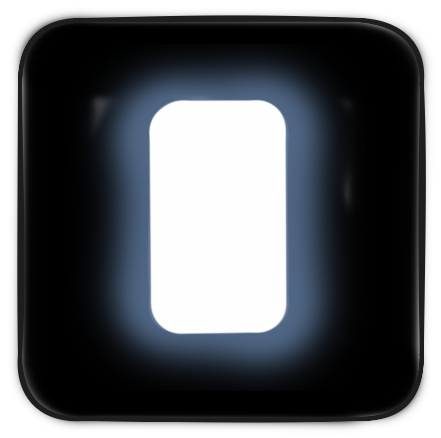
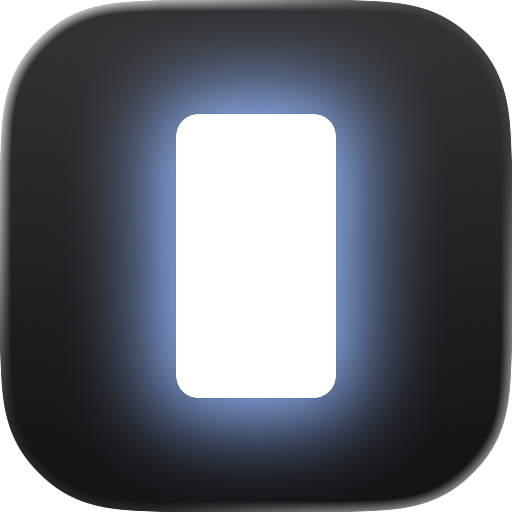
Use real screenshots, replace Coming Soon with Hibi
- Add per-app screenshot folders (zettel/, zeitgeist/, hibi/) with
  4 screenshots each, renamed to 1-4.png
- Remove old placeholder screenshot.png
- Replace "?" Coming Soon icon with Hibi (Paper-like Calendar)
- Remove next-icon.png, add hibi-icon.png
- Increase mobile scroll range to 200vh

diff --git a/index.html b/index.html
@@ -54,22 +54,22 @@
 				<div class="screenshot-group" data-app="0">
 					<div class="ss-lane ss-lane--left">
 						<div class="ss-lane__strip">
-							<img class="ss" src="/screenshots/screenshot.png" alt="" />
-							<img class="ss" src="/screenshots/screenshot.png" alt="" />
-							<img class="ss" src="/screenshots/screenshot.png" alt="" />
-							<img class="ss" src="/screenshots/screenshot.png" alt="" />
-							<img class="ss" src="/screenshots/screenshot.png" alt="" />
-							<img class="ss" src="/screenshots/screenshot.png" alt="" />
+							<img class="ss" src="/screenshots/zettel/1.png" alt="" />
+							<img class="ss" src="/screenshots/zettel/2.png" alt="" />
+							<img class="ss" src="/screenshots/zettel/3.png" alt="" />
+							<img class="ss" src="/screenshots/zettel/1.png" alt="" />
+							<img class="ss" src="/screenshots/zettel/2.png" alt="" />
+							<img class="ss" src="/screenshots/zettel/3.png" alt="" />
 						</div>
 					</div>
 					<div class="ss-lane ss-lane--right">
 						<div class="ss-lane__strip ss-lane__strip--reverse">
-							<img class="ss" src="/screenshots/screenshot.png" alt="" />
-							<img class="ss" src="/screenshots/screenshot.png" alt="" />
-							<img class="ss" src="/screenshots/screenshot.png" alt="" />
-							<img class="ss" src="/screenshots/screenshot.png" alt="" />
-							<img class="ss" src="/screenshots/screenshot.png" alt="" />
-							<img class="ss" src="/screenshots/screenshot.png" alt="" />
+							<img class="ss" src="/screenshots/zettel/4.png" alt="" />
+							<img class="ss" src="/screenshots/zettel/1.png" alt="" />
+							<img class="ss" src="/screenshots/zettel/2.png" alt="" />
+							<img class="ss" src="/screenshots/zettel/4.png" alt="" />
+							<img class="ss" src="/screenshots/zettel/1.png" alt="" />
+							<img class="ss" src="/screenshots/zettel/2.png" alt="" />
 						</div>
 					</div>
 				</div>
@@ -77,22 +77,22 @@
 				<div class="screenshot-group" data-app="1">
 					<div class="ss-lane ss-lane--left">
 						<div class="ss-lane__strip">
-							<img class="ss" src="/screenshots/screenshot.png" alt="" />
-							<img class="ss" src="/screenshots/screenshot.png" alt="" />
-							<img class="ss" src="/screenshots/screenshot.png" alt="" />
-							<img class="ss" src="/screenshots/screenshot.png" alt="" />
-							<img class="ss" src="/screenshots/screenshot.png" alt="" />
-							<img class="ss" src="/screenshots/screenshot.png" alt="" />
+							<img class="ss" src="/screenshots/zeitgeist/1.png" alt="" />
+							<img class="ss" src="/screenshots/zeitgeist/2.png" alt="" />
+							<img class="ss" src="/screenshots/zeitgeist/3.png" alt="" />
+							<img class="ss" src="/screenshots/zeitgeist/1.png" alt="" />
+							<img class="ss" src="/screenshots/zeitgeist/2.png" alt="" />
+							<img class="ss" src="/screenshots/zeitgeist/3.png" alt="" />
 						</div>
 					</div>
 					<div class="ss-lane ss-lane--right">
 						<div class="ss-lane__strip ss-lane__strip--reverse">
-							<img class="ss" src="/screenshots/screenshot.png" alt="" />
-							<img class="ss" src="/screenshots/screenshot.png" alt="" />
-							<img class="ss" src="/screenshots/screenshot.png" alt="" />
-							<img class="ss" src="/screenshots/screenshot.png" alt="" />
-							<img class="ss" src="/screenshots/screenshot.png" alt="" />
-							<img class="ss" src="/screenshots/screenshot.png" alt="" />
+							<img class="ss" src="/screenshots/zeitgeist/4.png" alt="" />
+							<img class="ss" src="/screenshots/zeitgeist/1.png" alt="" />
+							<img class="ss" src="/screenshots/zeitgeist/2.png" alt="" />
+							<img class="ss" src="/screenshots/zeitgeist/4.png" alt="" />
+							<img class="ss" src="/screenshots/zeitgeist/1.png" alt="" />
+							<img class="ss" src="/screenshots/zeitgeist/2.png" alt="" />
 						</div>
 					</div>
 				</div>
@@ -100,22 +100,22 @@
 				<div class="screenshot-group" data-app="2">
 					<div class="ss-lane ss-lane--left">
 						<div class="ss-lane__strip">
-							<img class="ss" src="/screenshots/screenshot.png" alt="" />
-							<img class="ss" src="/screenshots/screenshot.png" alt="" />
-							<img class="ss" src="/screenshots/screenshot.png" alt="" />
-							<img class="ss" src="/screenshots/screenshot.png" alt="" />
-							<img class="ss" src="/screenshots/screenshot.png" alt="" />
-							<img class="ss" src="/screenshots/screenshot.png" alt="" />
+							<img class="ss" src="/screenshots/hibi/1.png" alt="" />
+							<img class="ss" src="/screenshots/hibi/2.png" alt="" />
+							<img class="ss" src="/screenshots/hibi/3.png" alt="" />
+							<img class="ss" src="/screenshots/hibi/1.png" alt="" />
+							<img class="ss" src="/screenshots/hibi/2.png" alt="" />
+							<img class="ss" src="/screenshots/hibi/3.png" alt="" />
 						</div>
 					</div>
 					<div class="ss-lane ss-lane--right">
 						<div class="ss-lane__strip ss-lane__strip--reverse">
-							<img class="ss" src="/screenshots/screenshot.png" alt="" />
-							<img class="ss" src="/screenshots/screenshot.png" alt="" />
-							<img class="ss" src="/screenshots/screenshot.png" alt="" />
-							<img class="ss" src="/screenshots/screenshot.png" alt="" />
-							<img class="ss" src="/screenshots/screenshot.png" alt="" />
-							<img class="ss" src="/screenshots/screenshot.png" alt="" />
+							<img class="ss" src="/screenshots/hibi/4.png" alt="" />
+							<img class="ss" src="/screenshots/hibi/1.png" alt="" />
+							<img class="ss" src="/screenshots/hibi/2.png" alt="" />
+							<img class="ss" src="/screenshots/hibi/4.png" alt="" />
+							<img class="ss" src="/screenshots/hibi/1.png" alt="" />
+							<img class="ss" src="/screenshots/hibi/2.png" alt="" />
 						</div>
 					</div>
 				</div>
@@ -152,11 +152,11 @@
 						<span class="app-tooltip__subtitle">Your Time, Organized</span>
 					</div>
 				</div>
-				<div class="app-icon" data-index="2" data-name="?" data-subtitle="Coming Soon" tabindex="0">
-					<img src="/next-icon.png" alt="Coming soon" />
+				<div class="app-icon" data-index="2" data-name="Hibi" data-subtitle="Paper-like Calendar" tabindex="0">
+					<img src="/hibi-icon.png" alt="Hibi" />
 					<div class="app-tooltip" role="tooltip">
-						<span class="app-tooltip__name">?</span>
-						<span class="app-tooltip__subtitle">Coming Soon</span>
+						<span class="app-tooltip__name">Hibi</span>
+						<span class="app-tooltip__subtitle">Paper-like Calendar</span>
 					</div>
 				</div>
 			</div>

diff --git a/src/style.css b/src/style.css
@@ -271,7 +271,7 @@ body {
 /* ── Mobile: two vertical screenshot lanes above tree (shown on app-icon tap) ── */
 @media (max-width: 768px) {
   body {
-    height: 125vh;
+    height: 200vh;
   }
 
   #screenshot-bg {
